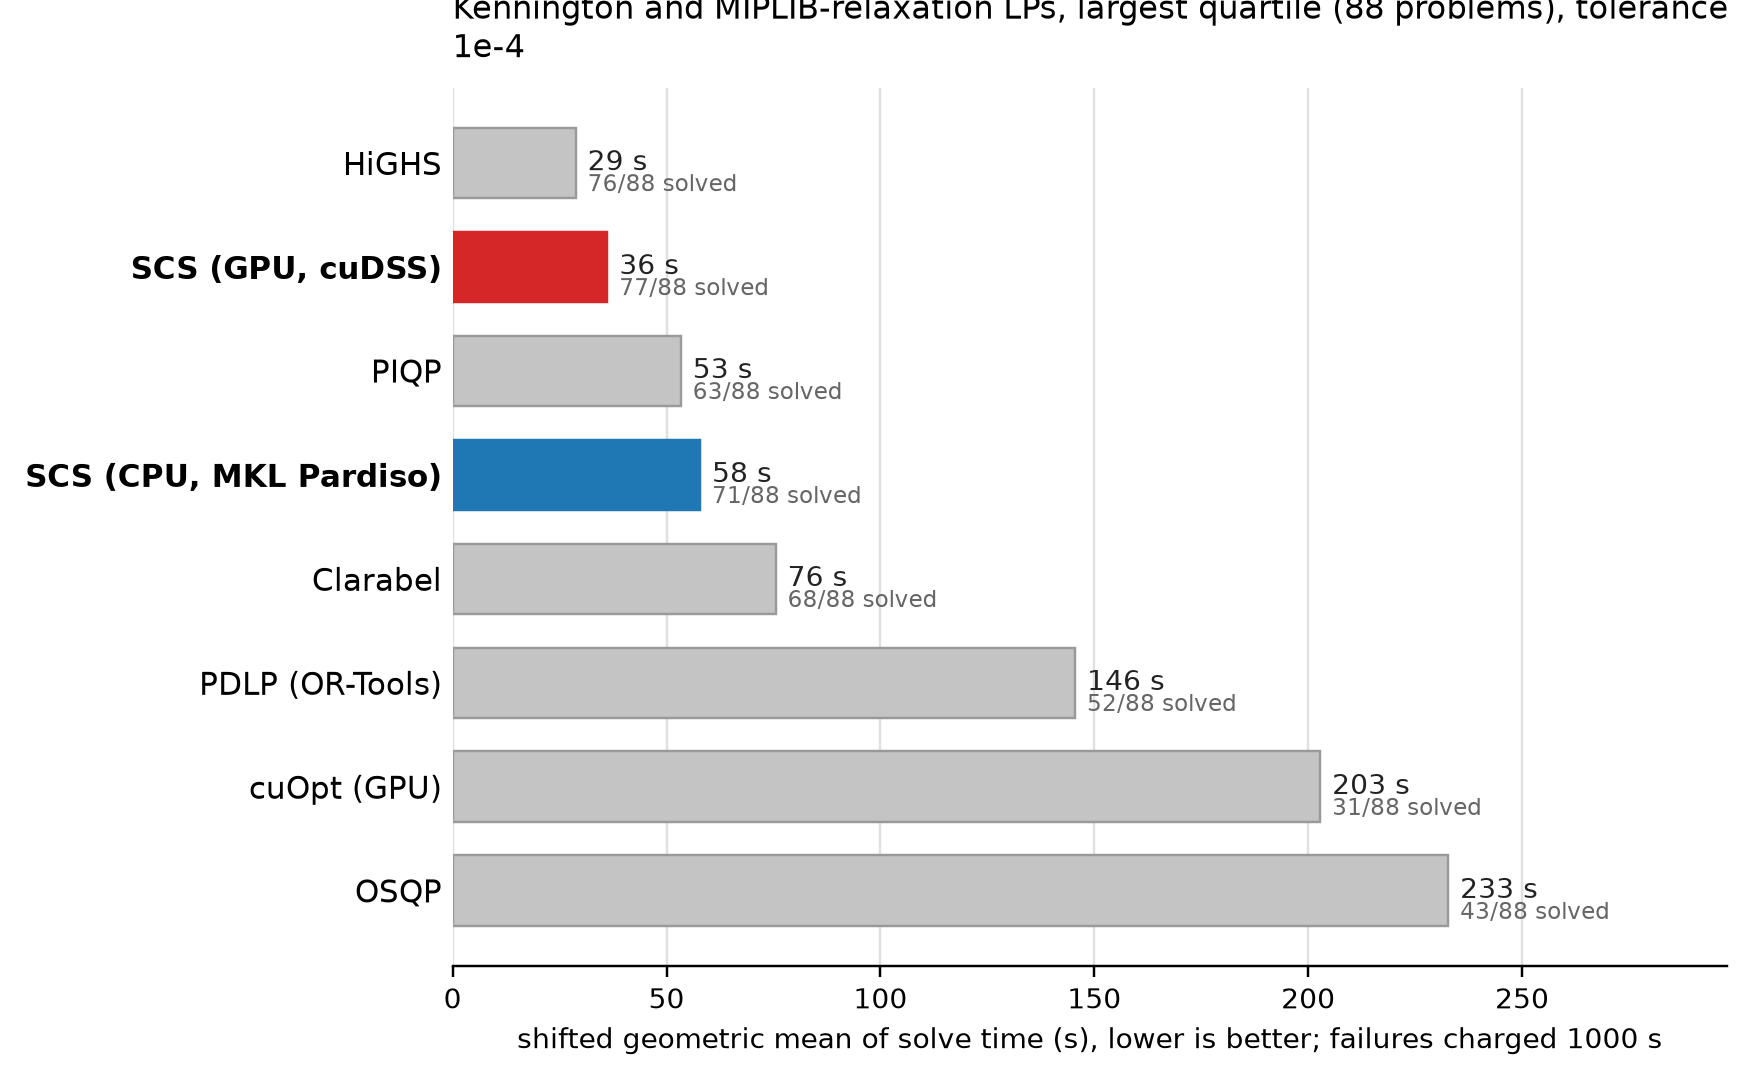
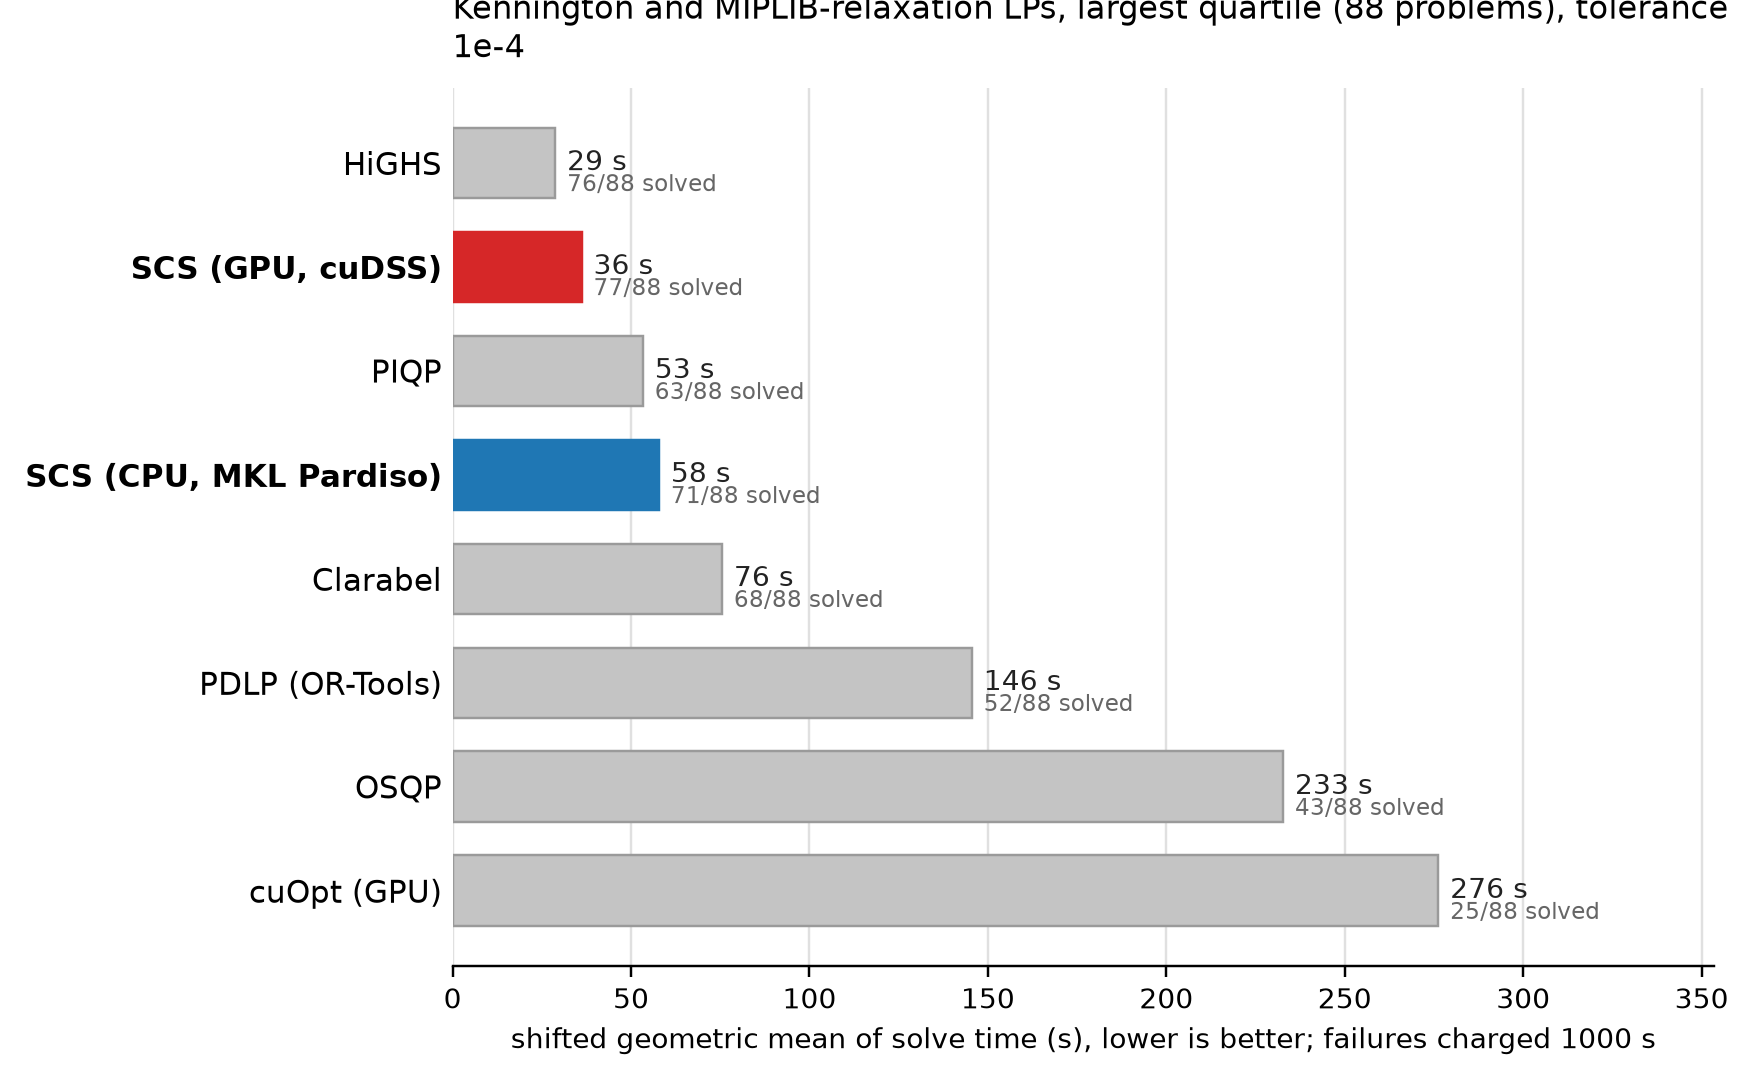
docs: match runs by verified-solve accuracy (cuOpt 1e-4, PDLP and ProxQP 1e-5)

diff --git a/docs/src/benchmarks/index.rst b/docs/src/benchmarks/index.rst
@@ -54,10 +54,10 @@ A requested tolerance means different things to different solvers, so the
 plots do not pair runs by the number requested. Each plot has a target
 accuracy (:math:`10^{-4}` for the headline plots), every returned solution is
 checked against it with the same residuals, and each solver is shown from the
-run whose achieved 90th-percentile residual is closest to that target. For
-the headline plots that is the :math:`10^{-4}` run for SCS and OSQP, the
-:math:`10^{-5}` run for PDLP and cuOpt, whose own stopping rules are looser in
-this measure, the :math:`10^{-6}` run for ProxQP, and the :math:`10^{-6}` run
+run whose 90th-percentile residual over its verified solves is closest to
+that target. For the headline plots that is the :math:`10^{-4}` run for SCS,
+OSQP and cuOpt, the :math:`10^{-5}` run for PDLP and ProxQP, whose own
+stopping rules are looser in this measure, and the :math:`10^{-6}` run
 (:math:`10^{-8}` on SDP) for the interior-point solvers, which reach that
 accuracy at little extra cost and would be shown faster than any user sees
 them at a looser setting. Every solve, whatever was requested, is then
@@ -133,19 +133,19 @@ returns that failed the check excluded for every solver.
      - --
      - --
    * - cuOpt (GPU)
-     - 1e-5
+     - 1e-4
      - 4e-8
      - 4e-6
-     - 6e-11
-     - 2e-5
+     - 1e-10
      - 8e-5
-     - 8e-4
+     - 1e-4
+     - 7e-4
      - --
      - --
    * - ProxQP
-     - 1e-6
-     - 5e-7
-     - 3e-5
+     - 1e-5
+     - 5e-6
+     - 1e-4
      - --
      - --
      - --
@@ -337,9 +337,9 @@ first-order solver by a wide margin.
      - 43.2
    * - cuOpt (GPU)
      - 109
-     - 35.5
+     - 35.2
      - 32
-     - 23.3
+     - 23.1
      - 103
      - 41.4
      - 27
@@ -355,9 +355,9 @@ first-order solver by a wide margin.
      - 349.8
    * - ProxQP
      - 98
-     - 60.5
-     - 13
-     - 361.9
+     - 71.0
+     - 12
+     - 373.3
      - 84
      - 93.8
      - 12
@@ -459,15 +459,6 @@ verification (see the notes below).
      - 39.9
      - 40
      - 234.9
-   * - cuOpt (GPU)
-     - 232
-     - 39.5
-     - 31
-     - 202.8
-     - 204
-     - 59.9
-     - 20
-     - 350.5
    * - OSQP
      - 257
      - 43.7
@@ -477,6 +468,15 @@ verification (see the notes below).
      - 139.5
      - 21
      - 514.3
+   * - cuOpt (GPU)
+     - 219
+     - 47.9
+     - 25
+     - 276.2
+     - 204
+     - 59.9
+     - 20
+     - 350.5
 
 .. _bench_sdp:
 
@@ -620,8 +620,8 @@ notes below).
      - 12
      - 428
    * - cuOpt (GPU)
-     - 8
-     - 466
+     - 7
+     - 528
    * - HiGHS
      - 9
      - 804
@@ -643,7 +643,7 @@ The headline plots target :math:`10^{-4}`. To show what a tighter target
 costs, the same three rows are repeated with a target of :math:`10^{-5}`,
 every solve verified at :math:`10^{-4}`, and each solver again shown from the
 run whose achieved accuracy is closest to the target: the :math:`10^{-5}` run
-for SCS and OSQP, the :math:`10^{-6}` run for PDLP, cuOpt and ProxQP, and the
+for SCS, OSQP and cuOpt, the :math:`10^{-6}` run for PDLP and ProxQP, and the
 interior-point rows unchanged.
 
 .. figure:: ../files/bench/landing_grid_1e-5.png
@@ -715,8 +715,8 @@ tolerance ones.
      - 313
    * - 
      - ProxQP
-     - 13
-     - 362
+     - 12
+     - 373
      - 12
      - 375
    * - Kennington and MIPLIB-relaxation LPs, largest quartile (88)
@@ -757,10 +757,10 @@ tolerance ones.
      - 172
    * - 
      - cuOpt (GPU)
-     - 31
-     - 203
-     - 22
-     - 316
+     - 25
+     - 276
+     - 24
+     - 287
    * - 
      - OSQP
      - 43
@@ -799,8 +799,8 @@ tolerance ones.
      - 428
    * - 
      - cuOpt (GPU)
-     - 8
-     - 466
+     - 7
+     - 528
      - 4
      - 675
    * - 
@@ -824,9 +824,11 @@ Notes on individual solvers
   often have large infinity-norm stationarity residuals even though cuOpt
   reports the solve as optimal, and even though its own reported absolute
   dual residual is between :math:`3\times10^{1}` and :math:`3\times10^{2}`. Under the uniform check used here
-  those solves count as failures. It is shown from its :math:`10^{-5}` run,
-  which reports 341 of the 349 LPs optimal, of which 236 pass the check, and
-  35 of the 37 Mittelmann instances, of which 8 pass. Its QP path is a
+  those solves count as failures, while the returns that do pass are very
+  accurate (median residual around :math:`10^{-10}`), so the requested
+  tolerance changes little. It is shown from its :math:`10^{-4}` run, which
+  reports 331 of the 349 LPs optimal, of which 223 pass the check, and all 37
+  Mittelmann instances, of which 7 pass. Its QP path is a
   barrier method whose solutions verify cleanly. We used cuOpt 26.8.0 with default settings apart
   from the tolerance and time limit.
 * **PDLP (OR-Tools).** The same L2-relative termination rule applies, with a
